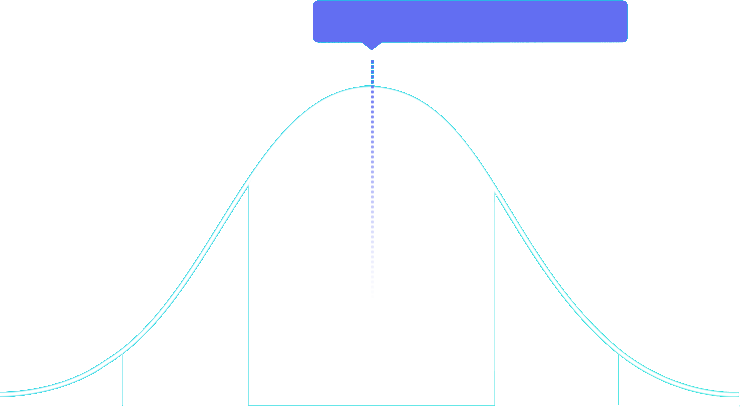
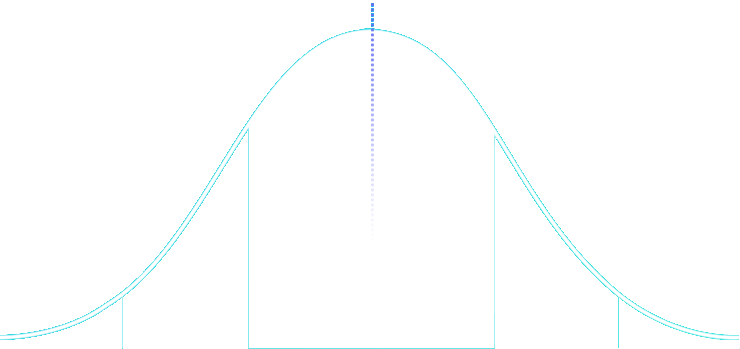
Issue #20 redesigning the bell curve

diff --git a/index.css b/index.css
@@ -660,11 +660,8 @@ body section .about-company-wrapper .average-economy-wrapper {
   background-image: repeating-linear-gradient(to top left, rgb(17, 222, 217) 0%, rgb(27, 199, 234) 100%);
   background-image: -ms-repeating-linear-gradient(bottom right, rgb(17, 222, 217) 0%, rgb(27, 199, 234) 100%);
   /*end of gradient*/
-  background-image: url("pics/bell-curve.png");
-  background-repeat: no-repeat;
-  background-position: 750px 95px;
   color: white;
-  padding: 85px 223px 80px 230px;
+  padding: 85px 123px 80px 230px;
   width: 100%;
 }
 
@@ -684,22 +681,54 @@ body section .about-company-wrapper .average-economy-wrapper .avg-econ-text .avg
   width: 80%;
 }
 
+
+/*styling the bell curve*/
+
+body section .about-company-wrapper .average-economy-wrapper .bell-curve-wrapper {
+  float: right;
+  width: 820px;
+  margin-top: -300px;
+}
+
+body section .about-company-wrapper .average-economy-wrapper .bell-curve-wrapper .bell-curve-image {
+  border-bottom: solid 1px white;
+  height: 100%;
+  margin-top: 20px;
+  float: right;
+}
+
+body section .about-company-wrapper .average-economy-wrapper .bell-curve-top-wrapper {
+  position: relative;
+  padding: 12px;
+  background-color: rgb(98, 110, 242);
+  -webkit-border-radius: 5px;
+  -moz-border-radius: 5px;
+  border-radius: 5px;
+  float: right;
+  margin-right: 119px;
+}
+
+body section .about-company-wrapper .average-economy-wrapper .bell-curve-top-wrapper:after {
+  content: "";
+  position: absolute;
+  bottom: -15px;
+  left: 44px;
+  border-width: 15px 15px 0;
+  border-style: solid;
+  border-color: rgb(98, 110, 242) transparent;
+  display: block;
+  width: 0;
+}
+
 body section .about-company-wrapper .average-economy-wrapper .bell-curve-top {
   font-size: 16px;
   color: white;
-  position: absolute;
-  width: 345px;
-  margin-left: 847px;
-  margin-top: 22px;
 }
 
 body section .about-company-wrapper .average-economy-wrapper .bell-curve-scale {
   font-size: 14px;
   color: rgb(71, 161, 158);
-  border-top: solid 1px white;
-  width: 745px;
-  margin-top: 415px;
-  margin-left: 520px;
+  float: right;
 }
 
 body section .about-company-wrapper .average-economy-wrapper .bell-curve-scale ul {

diff --git a/index.html b/index.html
@@ -195,19 +195,24 @@
                         тем, что помогли им сэкономить серьезные деньги.
                     </p>
                 </div>
-                <div class="bell-curve-top clearfix">
-                    <p>19 298 руб/год средняя экономия</p>
-                </div>
-                <div class="bell-curve-scale clearfix">
-                    <ul>
-                        <li>3 470 руб.</li>
-                        <li>13 960 руб.</li>
-                        <li>17 490 руб.</li>
-                        <li class="active-scale">19 298 руб.</li>
-                        <li>24 050 руб.</li>
-                        <li>28 120 руб.</li>
-                        <li>33 800 руб.</li>
-                    </ul>
+                <div class="bell-curve-wrapper clearfix">
+                    <div class="bell-curve-top-wrapper clearfix">
+                        <div class="bell-curve-top clearfix">
+                            <p>19 298 руб/год средняя экономия</p>
+                        </div>
+                    </div>
+                    <img class="bell-curve-image" src="pics/bell-curve.png" alt="a picture of a bell curve">
+                    <div class="bell-curve-scale clearfix">
+                        <ul>
+                            <li>3 470 руб.</li>
+                            <li>13 960 руб.</li>
+                            <li>17 490 руб.</li>
+                            <li class="active-scale">19 298 руб.</li>
+                            <li>24 050 руб.</li>
+                            <li>28 120 руб.</li>
+                            <li>33 800 руб.</li>
+                        </ul>
+                    </div>
                 </div>
             </div>
             <!--end of average-economy-wrapper-->
